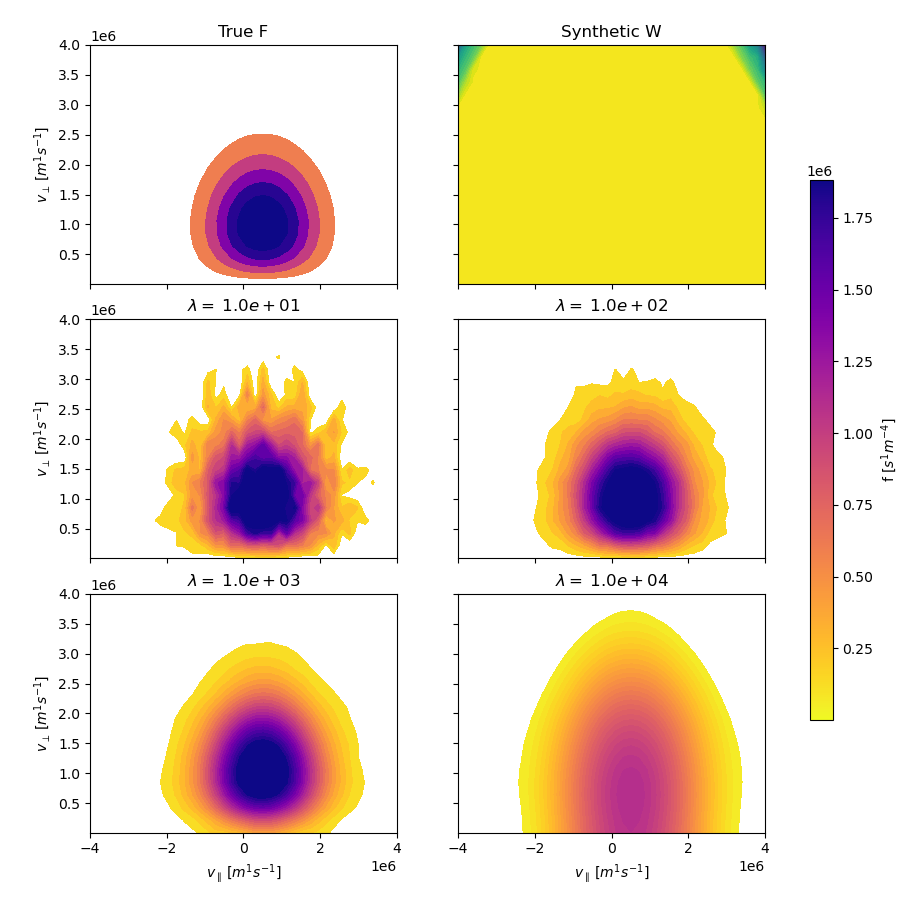
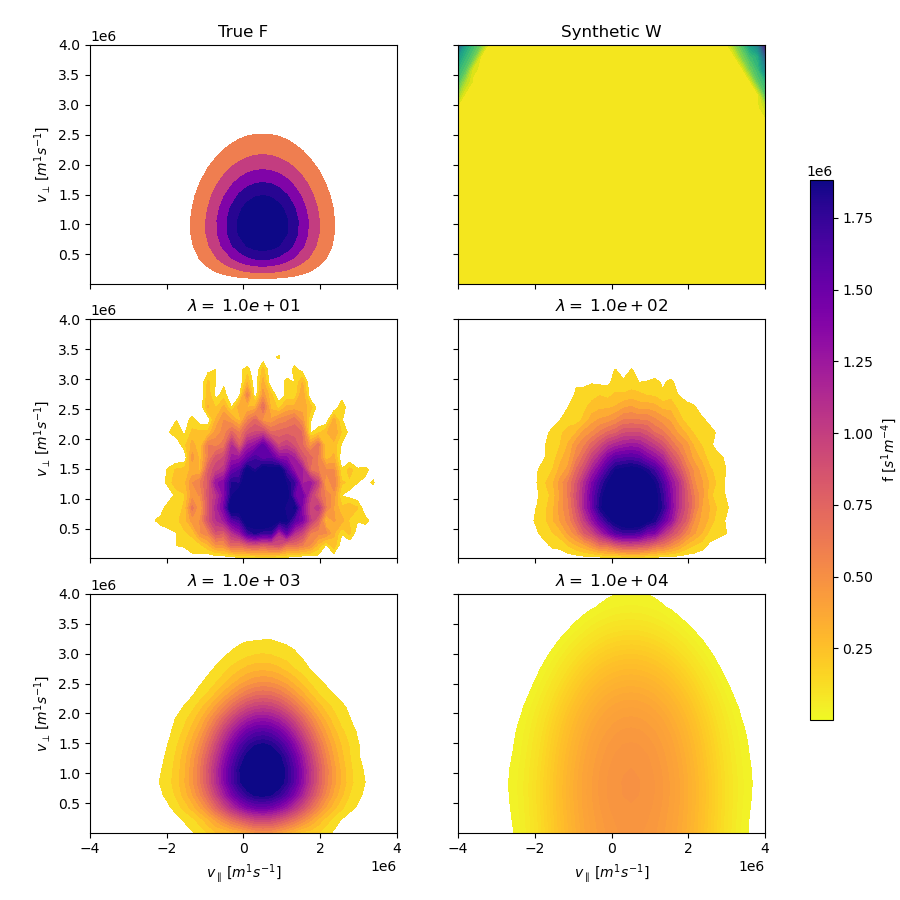
''

diff --git a/tomoanalyticV_python/AnalyticTestCase.py b/tomoanalyticV_python/AnalyticTestCase.py
@@ -94,7 +94,7 @@ S = np.einsum('i,i->i',S,1/e)
 # PERFORMING INVERSION
 
 lmbd = np.asarray([10**1,10**2,10**3,10**4])#**0.5
-bt = 2*10**-15
+bt = 2*10**-6
 
 f_lambda = TikhonovNonNeg(W,S,v_prl,v_prp,lmbd,bt)
 
